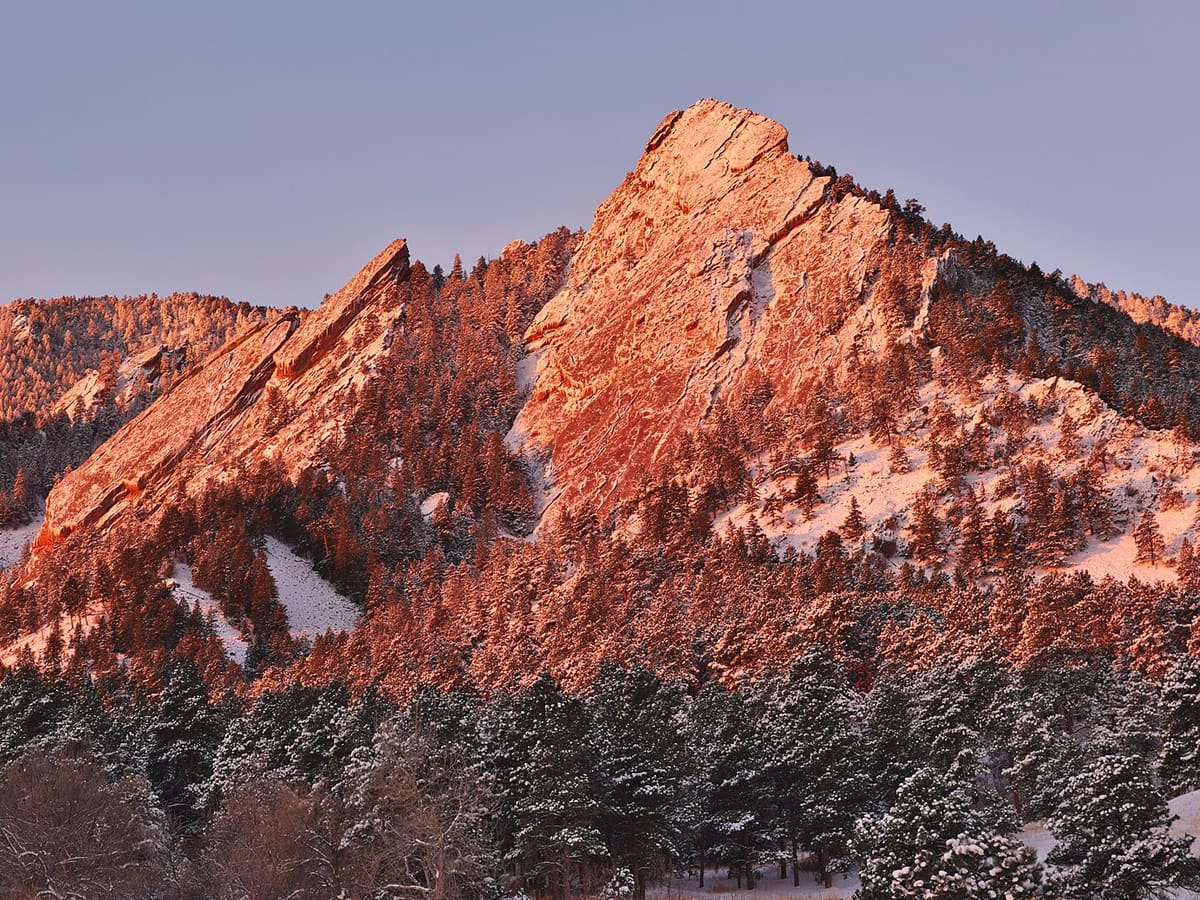
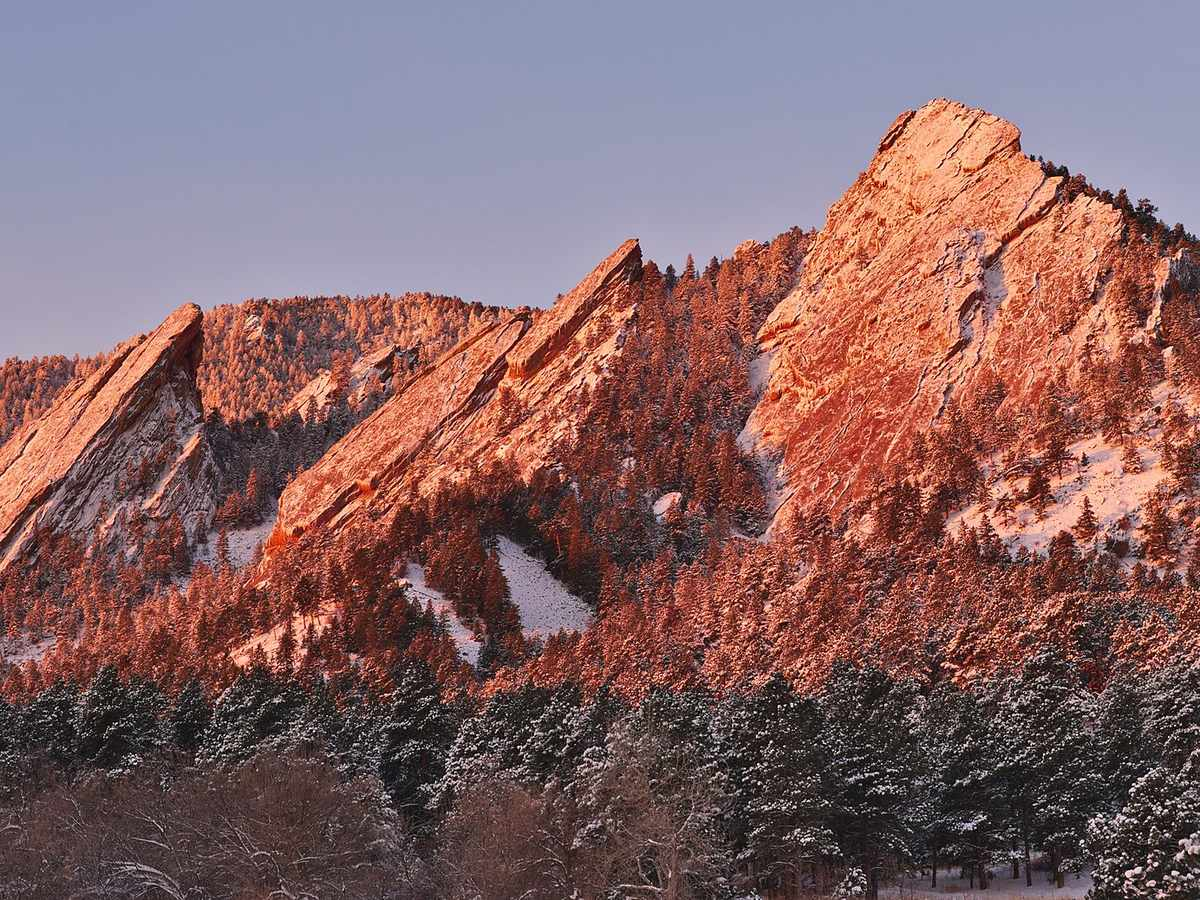
SEO: unique town pages, add Erie and Broomfield, license-attributed photos, drop empty review blocks (#42)

diff --git a/src/static/js/book.js b/src/static/js/book.js
@@ -118,7 +118,7 @@
       zipHint.className = 'hint';
       if (z.length < 5) { zipHint.textContent = ''; return; }
       if (ZIPS.indexOf(z) !== -1) { zipHint.textContent = 'In our service area.'; zipHint.classList.add('ok'); }
-      else { zipHint.textContent = 'Outside the five towns we publish. Send it anyway and we will tell you if a route can reach you.'; zipHint.classList.add('warn'); }
+      else { zipHint.textContent = 'Not on our published route list. Send it anyway and we will tell you if a route can reach you.'; zipHint.classList.add('warn'); }
     });
   }
 

diff --git a/CREDITS.md b/CREDITS.md
@@ -2,15 +2,19 @@
 
 ## Town page imagery — Wikimedia Commons (licensed local scenery, not job photos)
 
-Committed under `src/static/img/cities/`, cropped to 4:3 and resized to 1200px for the web. Shown on `/credits/`.
+Committed under `src/static/img/cities/`, cropped to 4:3, resized to 1200x900, and compressed to under 200 KB (updated 2026-10-29; Erie and Broomfield added). No other edits. Shown on `/credits/`, and each town page captions its photo with author, license, and a link to the source. `src/data/site.mjs` → `towns[].credit` is the source of truth for those captions.
 
 | File | Depicts | Author | License | Source |
 | --- | --- | --- | --- | --- |
-| boulder.jpg | Flatirons from Chautauqua at sunrise | Tyler Cipriani | CC BY-SA 4.0 | https://commons.wikimedia.org/wiki/File:Flatirons_Sunrise.jpg |
+| boulder.jpg | Flatirons Sunrise (Flatirons from Chautauqua) | Tyler Cipriani | CC BY-SA 4.0 | https://commons.wikimedia.org/wiki/File:Flatirons_Sunrise.jpg |
 | louisville.jpg | Jacoe Store, Main Street, Louisville, CO | Jeffrey Beall | CC BY-SA 3.0 | https://commons.wikimedia.org/wiki/File:Jacoe_Store.JPG |
 | lafayette.jpg | E Simpson Street, Lafayette, CO | Jared Winkler | CC BY-SA 4.0 | https://commons.wikimedia.org/wiki/File:Lafayette,_CO.jpg |
 | longmont.jpg | Downtown Longmont Main Street | David Shankbone | CC BY 3.0 | https://commons.wikimedia.org/wiki/File:Longmont_Colorado.JPG |
 | superior.jpg | Rock Creek subdivision, Superior, CO | Pleiades Two | CC BY-SA 3.0 | https://commons.wikimedia.org/wiki/File:Superior,_Colorado,_Fall_2011.jpg |
+| erie.jpg | Erie Town Hall (former Lincoln School) | Erie Bard | CC BY-SA 4.0 | https://commons.wikimedia.org/wiki/File:Town_Hall_Erie_Colorado_01.jpg |
+| broomfield.jpg | Flatirons view from Broomfield, Colorado | Kpsudeep | CC BY-SA 4.0 | https://commons.wikimedia.org/wiki/File:Flatirons_view_from_Broomfield,_Colorado.jpg |
+
+Town facts on each page come from the Wikipedia town articles, USGS GNIS elevations as listed there, and the 2020 U.S. census. Re-check before changing a number.
 
 ## Service imagery
 

diff --git a/src/content/blog/five-signs-your-duct-is-packed.md b/src/content/blog/five-signs-your-duct-is-packed.md
@@ -32,4 +32,4 @@ Stop here. The machine is holding heat it cannot exhaust, with a duct full of th
 > If the top of the dryer is hot to the touch, the heat has nowhere to go. That is the one that starts fires.
 
 ## What we would do about it
-One clean, about an hour, **$129** for most homes in our five towns and **$169** if your duct terminates on the roof or runs a long way. You see which one you are before you book. We meter the airflow before and after so the improvement is a number, not a feeling.
+One clean, about an hour, **$129** for most homes in the towns we serve and **$169** if your duct terminates on the roof or runs a long way. You see which one you are before you book. We meter the airflow before and after so the improvement is a number, not a feeling.
